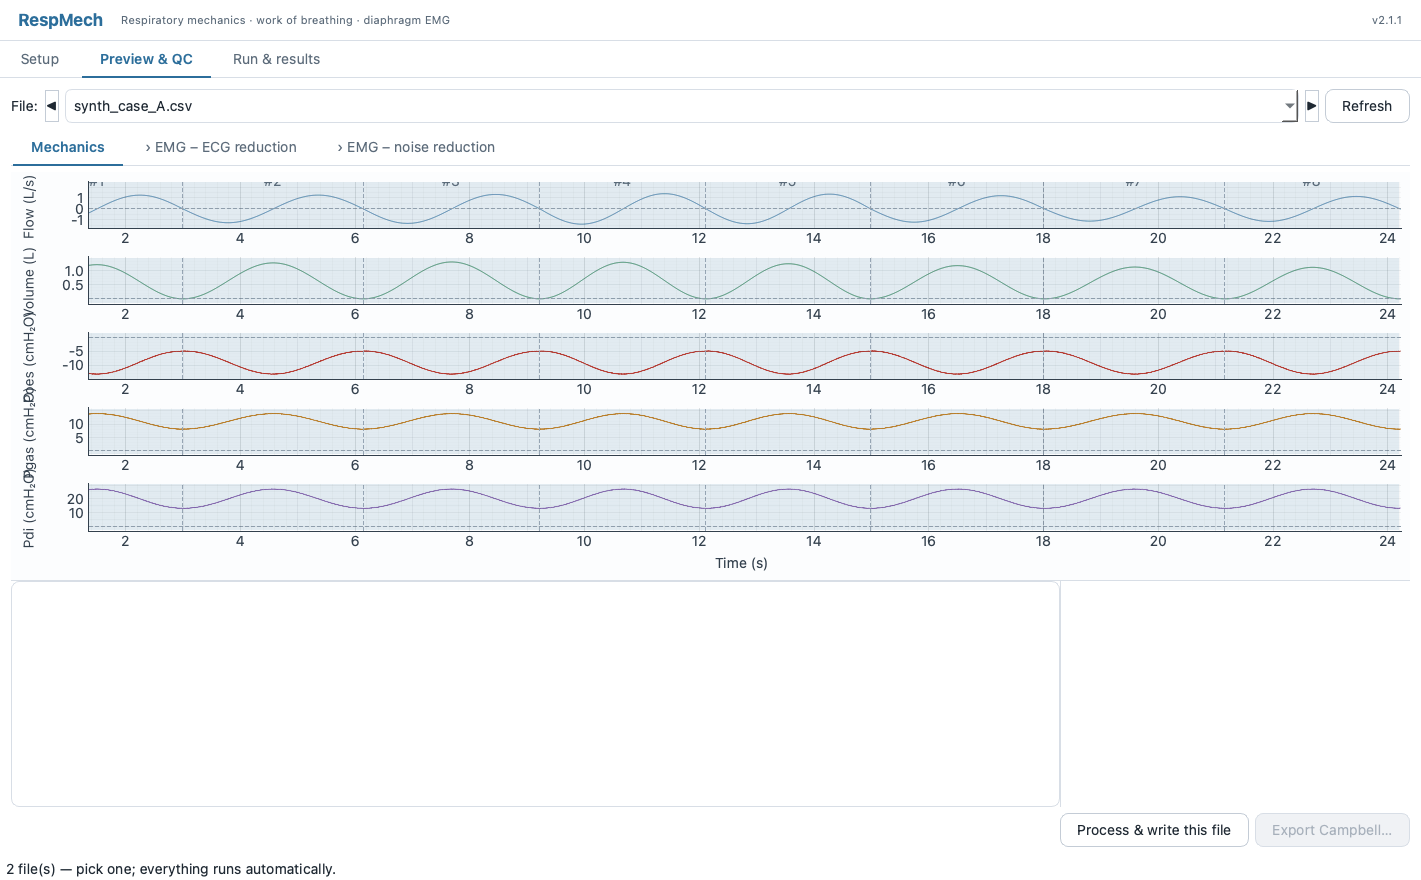
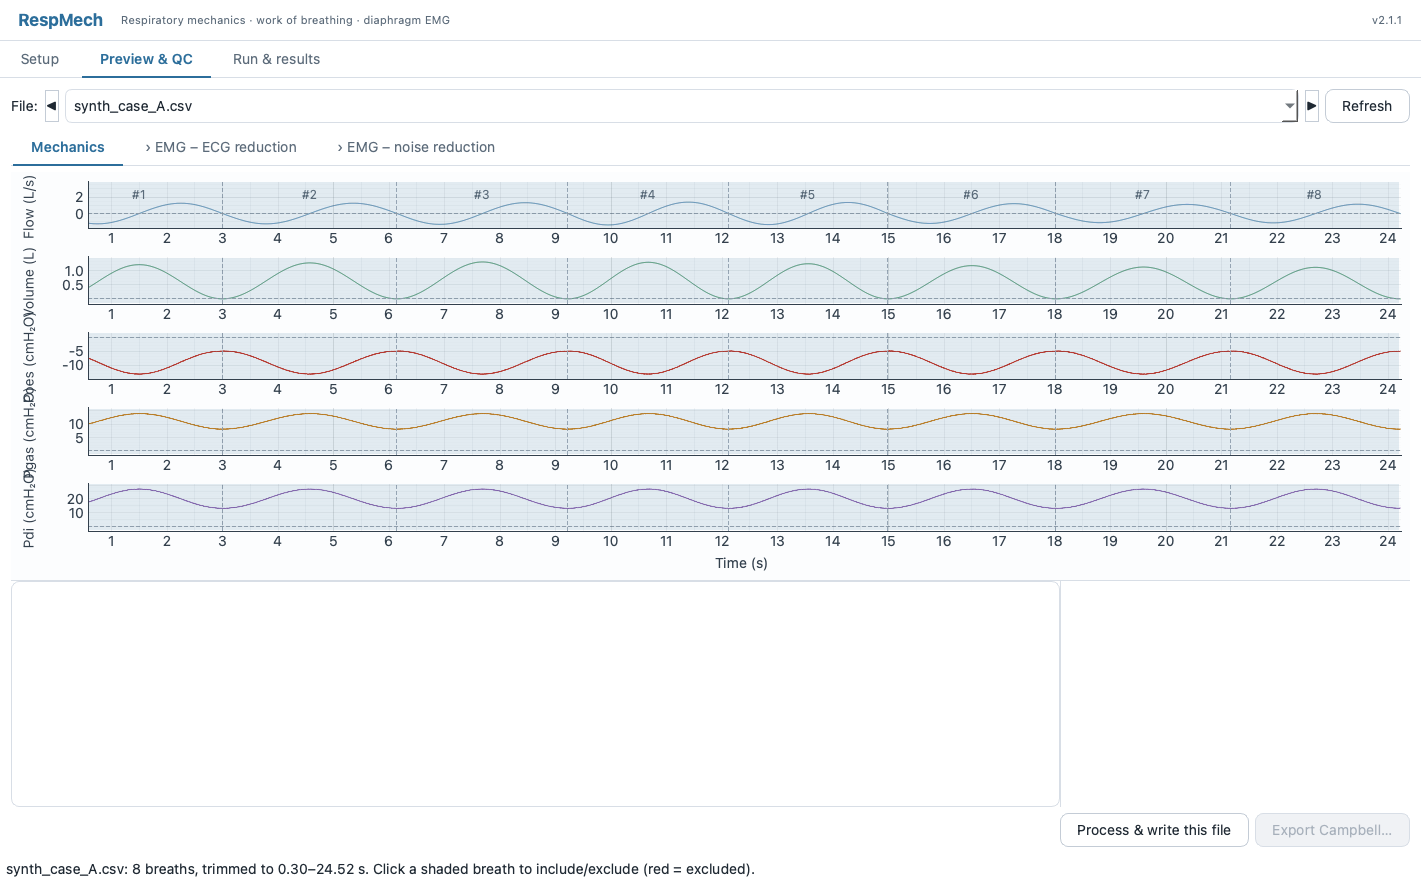
Fix clipped breath-number labels on the mechanics channel plots
The '#N' labels were cut off at the top of the flow plot. Two independent causes,
both a units mismatch between data space and pixels:

1. _label_headroom expanded the y range by a fixed FRACTION of the data span (22%),
   but a TextItem is a fixed PIXEL height whatever the scale. The five stacked
   mechanics channels leave ~46 px of data area each, where 22% is ~15 px — less than
   the label, so it clipped. Headroom is now solved exactly from the label's measured
   pixel height (new_span = span + label_px*new_span/height_px), so the label occupies
   label_px at the top at any plot height; the fraction remains only as the fallback
   for a plot with no laid-out height yet.

2. The label box itself was 23 px — and the font was NOT the reason: measuring showed
   setFont(9pt) alone leaves it at 23 px, because QTextDocument adds a 4 px margin on
   every side. Font 9 pt + documentMargin 0 gives ~15 px. Without this, guaranteeing
   the label fits squashed the flow trace into 38% of its panel.

Result on the mechanics tab: label 25 -> 15 px, fully inside the view (20 px of
headroom), and the signal keeps 56% of the plot instead of 38%. Both label call sites
now share one _breath_text factory. Regression test pins the invariant (label fits AND
the signal keeps most of the plot) rather than a magic number. README screenshot
re-captured.

317 unit tests; goldens byte-identical.

diff --git a/src/respmech/ui/screens/preview_screen.py b/src/respmech/ui/screens/preview_screen.py
@@ -37,6 +37,7 @@ from PySide6.QtWidgets import (QCheckBox, QComboBox, QDialog, QDoubleSpinBox,
                                QSizePolicy, QSplitter, QTableWidget, QTableWidgetItem,
                                QTabWidget, QVBoxLayout, QWidget)
 from PySide6.QtCore import Qt, QEvent, QThread, QTimer, Signal
+from PySide6.QtGui import QFont
 
 import pyqtgraph as pg
 from matplotlib.backends.backend_qtagg import FigureCanvasQTAgg
@@ -1692,19 +1693,56 @@ class PreviewScreen(QWidget):
         except Exception:                        # noqa: BLE001 — cosmetic
             pass
 
-    def _label_headroom(self, plot, frac=0.22):
+    def _breath_text(self, num, ignored):
+        """A breath-number TextItem, sized for the SHORT stacked mechanics channel plots
+        (~46 px of data area each): at the 13 pt app font the box is 23 px, so the headroom
+        needed to show it swallows half the plot.
+
+        Both steps matter, and the second is the one that counts: the default box is 23 px
+        almost entirely because QTextDocument adds a 4 px margin on every side — setting a
+        smaller font ALONE leaves it at 23 px. Font 9 pt + documentMargin 0 gives ~15 px."""
+        txt = pg.TextItem(self._breath_label(num),
+                          color=self._breath_label_color(ignored), anchor=(0.5, 1.0))
+        f = QFont(); f.setPointSizeF(9.0)
+        txt.setFont(f)
+        txt.textItem.document().setDocumentMargin(0)
+        txt.updateTextPos()
+        return txt
+
+    @staticmethod
+    def _label_px(texts, default=25.0, margin=4.0):
+        """The tallest breath label's rendered height in pixels (+ a little breathing room),
+        measured rather than assumed — a TextItem is taller than its font size."""
+        try:
+            h = max(t.boundingRect().height() for t in (texts.values() if hasattr(texts, "values") else texts))
+            return float(h) + margin if h > 0 else default + margin
+        except Exception:                        # noqa: BLE001 — cosmetic
+            return default + margin
+
+    def _label_headroom(self, plot, label_px=25.0, frac=0.22):
         """Expand the label-carrying plot's y range upward so breath labels sit clearly
         above the signal — the short mechanics channel plots would otherwise clip them.
         Re-fits y to the DATA first so repeated repaints of a persistent plot (detail /
-        result) don't compound the headroom."""
+        result) don't compound the headroom.
+
+        The headroom is sized in PIXELS, not as a fraction of the data span: a TextItem is
+        a fixed pixel height whatever the scale, so a fixed fraction clips it on a short
+        plot (five stacked mechanics channels leave each ~70 px, where 22% ≈ 15 px — less
+        than the label). Solving ``new_span = span + label_px * new_span / height_px`` for
+        the exact expansion makes the label occupy ``label_px`` at the top at any height;
+        ``frac`` is only the fallback when the plot has no laid-out height yet."""
         try:
             vb = plot.getViewBox()
             vb.enableAutoRange(y=True)           # snap y back to the data extent…
             vb.updateAutoRange()                 # …(not the previous, already-expanded view)
             (x0, x1), (y0, y1) = vb.viewRange()
             span = y1 - y0
-            if span > 0:
-                vb.setYRange(y0, y1 + frac * span, padding=0)   # (this disables y auto again)
+            if span <= 0:
+                return
+            h_px = float(vb.height() or 0.0)
+            extra = (span * (label_px / (h_px - label_px))
+                     if h_px > label_px + 6 else frac * span)
+            vb.setYRange(y0, y1 + extra, padding=0)   # (this disables y auto again)
         except Exception:                        # noqa: BLE001 — cosmetic
             pass
 
@@ -1728,13 +1766,13 @@ class PreviewScreen(QWidget):
                 self._breath_regions[n].append(reg)
                 plot.addLine(x=t0, pen=pg.mkPen(sep, width=1, style=Qt.DashLine))
             if self._channel_plots:
-                txt = pg.TextItem(self._breath_label(n),
-                                  color=self._breath_label_color(ignored), anchor=(0.5, 1.0))
+                txt = self._breath_text(n, ignored)
                 txt.setPos((t0 + t1) / 2.0, label_y)
                 self._channel_plots[0].addItem(txt)
                 self._breath_texts[n] = txt
         if self._channel_plots and self._breath_texts:
-            self._label_headroom(self._channel_plots[0])   # keep the labels above the signal
+            # size the headroom from the label's REAL rendered height, not a guess
+            self._label_headroom(self._channel_plots[0], label_px=self._label_px(self._breath_texts))
 
     def _breath_at(self, t):
         for n, (t0, t1) in self._breath_spans.items():
@@ -1868,12 +1906,11 @@ class PreviewScreen(QWidget):
                 items.append((p, reg)); reg_map.setdefault(num, []).append(reg)
                 line = p.addLine(x=a, pen=pg.mkPen(sep, width=1, style=Qt.DashLine))
                 items.append((p, line))
-            txt = pg.TextItem(self._breath_label(num),
-                              color=self._breath_label_color(ignored), anchor=(0.5, 1.0))
+            txt = self._breath_text(num, ignored)
             txt.setPos((a + b) / 2.0, label_y)
             plot_items[0].addItem(txt)
             items.append((plot_items[0], txt)); txt_map[num] = txt
-        self._label_headroom(plot_items[0])       # keep the labels above the signal
+        self._label_headroom(plot_items[0], label_px=self._label_px(txt_map))   # labels above the signal
 
     def _repaint_view_breaths(self, view):
         """Repaint one EMG view IF it has rendered real data (label_y sentinel set)."""

diff --git a/tests/unit/test_gui_interactive.py b/tests/unit/test_gui_interactive.py
@@ -798,3 +798,32 @@ def test_no_button_label_is_clipped_by_theme_padding(qapp, tmp_path):
             clipped.append((b.text(), b.maximumWidth(), b.sizeHint().width()))
     assert clipped == [], f"buttons whose label cannot fit their fixed width: {clipped}"
     win.close()
+
+
+def test_breath_labels_fit_inside_the_short_channel_plots(qapp, tmp_path):
+    """The breath '#N' labels were clipped on the mechanics tab: the headroom was a fixed
+    FRACTION of the data span (22%), but a TextItem is a fixed PIXEL height — on the five
+    stacked channel plots (~46 px of data area each) 22% is less than the label. Headroom
+    is now derived from the label's measured pixel height, and the label box itself is
+    compact (QTextDocument's default 4 px margin, not the font, made it 23 px)."""
+    from respmech.ui.main_window import MainWindow
+    win = MainWindow(AppState(_settings(str(tmp_path))))
+    win.resize(1360, 880); win.show(); qapp.processEvents()
+    pv = win.preview_screen
+    pv._refresh_files(); pv.file_combo.setCurrentIndex(0); pv._preview()
+    for _ in range(10):
+        qapp.processEvents()
+    assert pv._breath_texts, "no breath labels drawn"
+    vb = pv._channel_plots[0].getViewBox()
+    (_x0, _x1), (y0, y1) = vb.viewRange()
+    h_px = vb.height()
+    assert h_px > 0 and y1 > y0
+    dy_per_px = (y1 - y0) / h_px
+    label_h = max(t.boundingRect().height() for t in pv._breath_texts.values())
+    label_y = max(t.pos().y() for t in pv._breath_texts.values())
+    headroom_px = (y1 - label_y) / dy_per_px
+    assert label_h <= 18, f"breath label box grew to {label_h}px (documentMargin/font regressed?)"
+    assert headroom_px >= label_h, f"label ({label_h}px) clipped: only {headroom_px:.1f}px of headroom"
+    # ...and the signal must still get most of the plot, not be squashed to fit the label
+    assert (label_y - y0) / dy_per_px >= 0.45 * h_px
+    win.close()